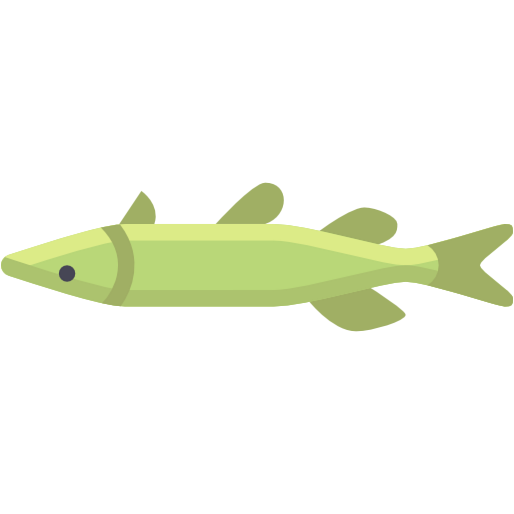
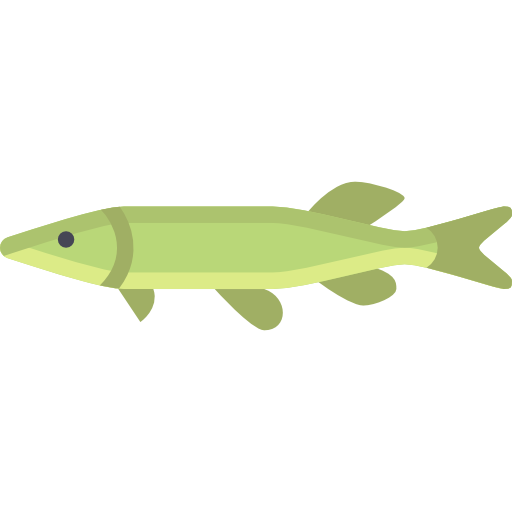
Update (NEWWWWW)!!!!!

Changed region(s): [[0.0, 0.3438, 1.0, 0.6562]]

diff --git a/course_project/AquariumForm.Designer.cs b/course_project/AquariumForm.Designer.cs
@@ -32,19 +32,13 @@
             this.add_carp_button = new System.Windows.Forms.Button();
             this.add_pike_button = new System.Windows.Forms.Button();
             this.aquarium_timer = new System.Windows.Forms.Timer(this.components);
-            this.pike_speed_numericupdown = new System.Windows.Forms.NumericUpDown();
             this.aquarium_status = new System.Windows.Forms.StatusStrip();
             this.carp_count_label = new System.Windows.Forms.ToolStripStatusLabel();
             this.pike_count_label = new System.Windows.Forms.ToolStripStatusLabel();
             this.hunting_status_label = new System.Windows.Forms.ToolStripStatusLabel();
             this.hunting_checkbox = new System.Windows.Forms.CheckBox();
-            this.carp_speed_numericupdown = new System.Windows.Forms.NumericUpDown();
-            this.carp_speed_label = new System.Windows.Forms.Label();
-            this.pike_speed_label = new System.Windows.Forms.Label();
             this.aquarium_clean_button = new System.Windows.Forms.Button();
-            ((System.ComponentModel.ISupportInitialize)(this.pike_speed_numericupdown)).BeginInit();
             this.aquarium_status.SuspendLayout();
-            ((System.ComponentModel.ISupportInitialize)(this.carp_speed_numericupdown)).BeginInit();
             this.SuspendLayout();
             // 
             // add_carp_button
@@ -72,27 +66,8 @@
             // aquarium_timer
             // 
             this.aquarium_timer.Enabled = true;
-            this.aquarium_timer.Interval = 1000;
+            this.aquarium_timer.Interval = 300;
             this.aquarium_timer.Tick += new System.EventHandler(this.Aquarium_timer_Tick);
-            // 
-            // pike_speed_numericupdown
-            // 
-            this.pike_speed_numericupdown.Anchor = ((System.Windows.Forms.AnchorStyles)((System.Windows.Forms.AnchorStyles.Bottom | System.Windows.Forms.AnchorStyles.Right)));
-            this.pike_speed_numericupdown.Location = new System.Drawing.Point(582, 393);
-            this.pike_speed_numericupdown.Maximum = new decimal(new int[] {
-            10,
-            0,
-            0,
-            0});
-            this.pike_speed_numericupdown.Name = "pike_speed_numericupdown";
-            this.pike_speed_numericupdown.Size = new System.Drawing.Size(90, 20);
-            this.pike_speed_numericupdown.TabIndex = 3;
-            this.pike_speed_numericupdown.Value = new decimal(new int[] {
-            5,
-            0,
-            0,
-            0});
-            this.pike_speed_numericupdown.ValueChanged += new System.EventHandler(this.Pike_Speed_NumericUpDown_ValueChanged);
             // 
             // aquarium_status
             // 
@@ -130,53 +105,12 @@
             this.hunting_checkbox.AutoSize = true;
             this.hunting_checkbox.BackColor = System.Drawing.Color.Transparent;
             this.hunting_checkbox.Enabled = false;
-            this.hunting_checkbox.Location = new System.Drawing.Point(582, 339);
+            this.hunting_checkbox.Location = new System.Drawing.Point(678, 312);
             this.hunting_checkbox.Name = "hunting_checkbox";
             this.hunting_checkbox.Size = new System.Drawing.Size(56, 17);
             this.hunting_checkbox.TabIndex = 5;
             this.hunting_checkbox.Text = "Охота";
             this.hunting_checkbox.UseVisualStyleBackColor = false;
-            // 
-            // carp_speed_numericupdown
-            // 
-            this.carp_speed_numericupdown.Anchor = ((System.Windows.Forms.AnchorStyles)((System.Windows.Forms.AnchorStyles.Bottom | System.Windows.Forms.AnchorStyles.Right)));
-            this.carp_speed_numericupdown.Location = new System.Drawing.Point(582, 367);
-            this.carp_speed_numericupdown.Maximum = new decimal(new int[] {
-            10,
-            0,
-            0,
-            0});
-            this.carp_speed_numericupdown.Name = "carp_speed_numericupdown";
-            this.carp_speed_numericupdown.Size = new System.Drawing.Size(90, 20);
-            this.carp_speed_numericupdown.TabIndex = 6;
-            this.carp_speed_numericupdown.Value = new decimal(new int[] {
-            5,
-            0,
-            0,
-            0});
-            this.carp_speed_numericupdown.ValueChanged += new System.EventHandler(this.Carp_Speed_NumericUpDown_ValueChanged);
-            // 
-            // carp_speed_label
-            // 
-            this.carp_speed_label.Anchor = ((System.Windows.Forms.AnchorStyles)((System.Windows.Forms.AnchorStyles.Bottom | System.Windows.Forms.AnchorStyles.Right)));
-            this.carp_speed_label.AutoSize = true;
-            this.carp_speed_label.BackColor = System.Drawing.Color.Transparent;
-            this.carp_speed_label.Location = new System.Drawing.Point(518, 369);
-            this.carp_speed_label.Name = "carp_speed_label";
-            this.carp_speed_label.Size = new System.Drawing.Size(58, 13);
-            this.carp_speed_label.TabIndex = 7;
-            this.carp_speed_label.Text = "Скорость:";
-            // 
-            // pike_speed_label
-            // 
-            this.pike_speed_label.Anchor = ((System.Windows.Forms.AnchorStyles)((System.Windows.Forms.AnchorStyles.Bottom | System.Windows.Forms.AnchorStyles.Right)));
-            this.pike_speed_label.AutoSize = true;
-            this.pike_speed_label.BackColor = System.Drawing.Color.Transparent;
-            this.pike_speed_label.Location = new System.Drawing.Point(518, 395);
-            this.pike_speed_label.Name = "pike_speed_label";
-            this.pike_speed_label.Size = new System.Drawing.Size(58, 13);
-            this.pike_speed_label.TabIndex = 8;
-            this.pike_speed_label.Text = "Скорость:";
             // 
             // aquarium_clean_button
             // 
@@ -196,12 +130,8 @@
             this.AutoScaleMode = System.Windows.Forms.AutoScaleMode.Font;
             this.ClientSize = new System.Drawing.Size(800, 450);
             this.Controls.Add(this.aquarium_clean_button);
-            this.Controls.Add(this.pike_speed_label);
-            this.Controls.Add(this.carp_speed_label);
-            this.Controls.Add(this.carp_speed_numericupdown);
             this.Controls.Add(this.hunting_checkbox);
             this.Controls.Add(this.aquarium_status);
-            this.Controls.Add(this.pike_speed_numericupdown);
             this.Controls.Add(this.add_pike_button);
             this.Controls.Add(this.add_carp_button);
             this.DoubleBuffered = true;
@@ -209,10 +139,8 @@
             this.ShowIcon = false;
             this.StartPosition = System.Windows.Forms.FormStartPosition.CenterScreen;
             this.Text = "Аквариум - Кузяев Виталий (ИТЗ-0900021у)";
-            ((System.ComponentModel.ISupportInitialize)(this.pike_speed_numericupdown)).EndInit();
             this.aquarium_status.ResumeLayout(false);
             this.aquarium_status.PerformLayout();
-            ((System.ComponentModel.ISupportInitialize)(this.carp_speed_numericupdown)).EndInit();
             this.ResumeLayout(false);
             this.PerformLayout();
 
@@ -222,15 +150,11 @@
         private System.Windows.Forms.Button add_carp_button;
         private System.Windows.Forms.Button add_pike_button;
         private System.Windows.Forms.Timer aquarium_timer;
-        private System.Windows.Forms.NumericUpDown pike_speed_numericupdown;
         private System.Windows.Forms.StatusStrip aquarium_status;
         private System.Windows.Forms.ToolStripStatusLabel carp_count_label;
         private System.Windows.Forms.ToolStripStatusLabel pike_count_label;
         private System.Windows.Forms.ToolStripStatusLabel hunting_status_label;
         private System.Windows.Forms.CheckBox hunting_checkbox;
-        private System.Windows.Forms.NumericUpDown carp_speed_numericupdown;
-        private System.Windows.Forms.Label carp_speed_label;
-        private System.Windows.Forms.Label pike_speed_label;
         private System.Windows.Forms.Button aquarium_clean_button;
     }
 }

diff --git a/course_project/AquariumForm.cs b/course_project/AquariumForm.cs
@@ -2,6 +2,7 @@
 using System.Collections.Generic;
 using System.Drawing;
 using System.Linq;
+using System.Threading;
 using System.Windows.Forms;
 
 namespace course_project
@@ -17,23 +18,7 @@ namespace course_project
 
             _aquarium = new Aquarium(ClientRectangle);
 
-            pike_speed_numericupdown.Value = 5;
-
             _carpFlockPoints = new List<Point>();
-        }
-
-        private void Pike_Speed_NumericUpDown_ValueChanged(object sender, EventArgs e)
-        {
-            foreach (var pike in _aquarium.pikeFlock)
-                pike.Speed = new Size(Convert.ToInt32(pike_speed_numericupdown.Value),
-                    Convert.ToInt32(pike_speed_numericupdown.Value));
-        }
-
-        private void Carp_Speed_NumericUpDown_ValueChanged(object sender, EventArgs e)
-        {
-            foreach (var carp in _aquarium.carpFlock)
-                carp.Speed = new Size(Convert.ToInt32(pike_speed_numericupdown.Value),
-                    Convert.ToInt32(pike_speed_numericupdown.Value));
         }
 
         private void Aquarium_timer_Tick(object sender, EventArgs e)
@@ -41,7 +26,7 @@ namespace course_project
             _carpFlockPoints.Clear();
 
             foreach (var pike in _aquarium.pikeFlock) pike.UpdateLocation(ClientRectangle);
-            
+
             foreach (var carp in _aquarium.carpFlock)
             {
                 var coordinates = carp.UpdateLocation(ClientRectangle);
@@ -118,19 +103,21 @@ namespace course_project
         private void Hunting()
         {
             foreach (var pike in _aquarium.pikeFlock)
-            {
                 if (!_aquarium.carpFlock.IsEmpty)
                 {
                     _aquarium.carpFlock.Remove(NearestPoint(_carpFlockPoints, pike.Data));
+
+                    carp_count_label.Text = "Карпы: " + _aquarium.carpFlock.Count;
+
+                    Thread.Sleep(1000);
+
+                    _carpFlockPoints.Clear();
                 }
                 else
                 {
                     hunting_checkbox.Checked = false;
                     hunting_checkbox.Enabled = false;
                 }
-
-                carp_count_label.Text = "Карпы: " + _aquarium.carpFlock.Count;
-            }
         }
 
         public Point NearestPoint(List<Point> points, Point point)

diff --git a/course_project/Fishes/Carp.cs b/course_project/Fishes/Carp.cs
@@ -5,39 +5,40 @@ namespace course_project.Fishes
 {
     internal class Carp : Fish
     {
-        public Size Speed;
-
-        public Carp(Point data) : base(Color.Red)
+        public Carp(Point data)
         {
-            Data = Coordinates = data;
+            Data = coordinates = data;
 
-            Size = new Size(40, 40);
+            size = new Size(40, 40);
 
-            Speed = new Size(5, 5);
+            speed = new Size(random.Next(-5, 5), random.Next(-5, 5));
+
+            image = speed.Width < 0
+                ? Resources.carp_to_left
+                : Resources.carp_to_right;
         }
 
         public Carp Next { get; set; }
 
         public override void Draw(Graphics graphics)
         {
-            graphics.DrawImage(Resources.carp_to_right, Coordinates.X, Coordinates.Y, Size.Width, Size.Height);
-            //graphics.FillRectangle(Brush, Coordinates.X, Coordinates.Y, Size.Width, Size.Height);
+            graphics.DrawImage(image, coordinates.X, coordinates.Y, size.Width, size.Height);
         }
 
         public Point UpdateLocation(Rectangle bounds)
         {
-            if (!bounds.Contains(Coordinates + Speed))
+            if (!bounds.Contains(coordinates + speed))
             {
-                if (Coordinates.X + Speed.Width < bounds.Left ||
-                    Coordinates.X + Speed.Width > bounds.Right - Size.Width) Speed.Width *= -1;
+                if (coordinates.X + speed.Width < bounds.Left ||
+                    coordinates.X + speed.Width > bounds.Right - size.Width) speed.Width *= -1;
 
-                if (Coordinates.Y + Speed.Height < bounds.Top ||
-                    Coordinates.Y + Speed.Height > bounds.Bottom - Size.Height) Speed.Height *= -1;
+                if (coordinates.Y + speed.Height < bounds.Top ||
+                    coordinates.Y + speed.Height > bounds.Bottom - size.Height) speed.Height *= -1;
             }
 
-            Coordinates += Speed;
+            coordinates += speed;
 
-            return Coordinates;
+            return coordinates;
         }
     }
 }

diff --git a/course_project/Fishes/Pike.cs b/course_project/Fishes/Pike.cs
@@ -5,39 +5,40 @@ namespace course_project.Fishes
 {
     internal class Pike : Fish
     {
-        public Size Speed;
-
-        public Pike(Point data) : base(Color.Green)
+        public Pike(Point data)
         {
-            Data = Coordinates = data;
+            Data = coordinates = data;
 
-            Size = new Size(80, 80);
+            size = new Size(80, 80);
 
-            Speed = new Size(5, 5);
+            speed = new Size(random.Next(-5, 5), random.Next(-5, 5));
+
+            image = speed.Width < 0
+                ? Resources.pike_to_left
+                : Resources.pike_to_right;
         }
 
         public Pike Next { get; set; }
 
         public override void Draw(Graphics graphics)
         {
-            graphics.DrawImage(Resources.pike_to_right, Coordinates.X, Coordinates.Y, Size.Width, Size.Height);
-            //graphics.FillEllipse(Brush, Coordinates.X, Coordinates.Y, Size.Width, Size.Height);
+            graphics.DrawImage(image, coordinates.X, coordinates.Y, size.Width, size.Height);
         }
 
         public Point UpdateLocation(Rectangle bounds)
         {
-            if (!bounds.Contains(Coordinates + Speed))
+            if (!bounds.Contains(coordinates + speed))
             {
-                if (Coordinates.X + Speed.Width < bounds.Left ||
-                    Coordinates.X + Speed.Width > bounds.Right - Size.Width) Speed.Width *= -1;
+                if (coordinates.X + speed.Width < bounds.Left ||
+                    coordinates.X + speed.Width > bounds.Right - size.Width) speed.Width *= -1;
 
-                if (Coordinates.Y + Speed.Height < bounds.Top ||
-                    Coordinates.Y + Speed.Height > bounds.Bottom - Size.Height) Speed.Height *= -1;
+                if (coordinates.Y + speed.Height < bounds.Top ||
+                    coordinates.Y + speed.Height > bounds.Bottom - size.Height) speed.Height *= -1;
             }
 
-            Coordinates += Speed;
+            coordinates += speed;
 
-            return Coordinates;
+            return coordinates;
         }
     }
 }

diff --git a/course_project/Properties/Resources.Designer.cs b/course_project/Properties/Resources.Designer.cs
@@ -63,6 +63,16 @@ namespace course_project.Properties {
         /// <summary>
         ///   Поиск локализованного ресурса типа System.Drawing.Bitmap.
         /// </summary>
+        internal static System.Drawing.Bitmap carp_to_left {
+            get {
+                object obj = ResourceManager.GetObject("carp_to_left", resourceCulture);
+                return ((System.Drawing.Bitmap)(obj));
+            }
+        }
+        
+        /// <summary>
+        ///   Поиск локализованного ресурса типа System.Drawing.Bitmap.
+        /// </summary>
         internal static System.Drawing.Bitmap carp_to_right {
             get {
                 object obj = ResourceManager.GetObject("carp_to_right", resourceCulture);

diff --git a/course_project/Fish.cs b/course_project/Fish.cs
@@ -1,16 +1,19 @@
-using System.Drawing;
+using System;
+using System.Drawing;
 
 namespace course_project
 {
     public class Fish
     {
-        protected readonly Brush Brush;
-        protected Point Coordinates;
-        protected Size Size;
+        protected Point coordinates;
+        protected Image image;
+        protected Random random;
+        protected Size size;
+        protected Size speed;
 
-        public Fish(Color color)
+        public Fish()
         {
-            Brush = new SolidBrush(color);
+            random = new Random();
         }
 
         public Point Data { get; set; }

diff --git a/course_project/Program.cs b/course_project/Program.cs
@@ -5,9 +5,6 @@ namespace course_project
 {
     internal static class Program
     {
-        /// <summary>
-        ///     Главная точка входа для приложения.
-        /// </summary>
         [STAThread]
         private static void Main()
         {
